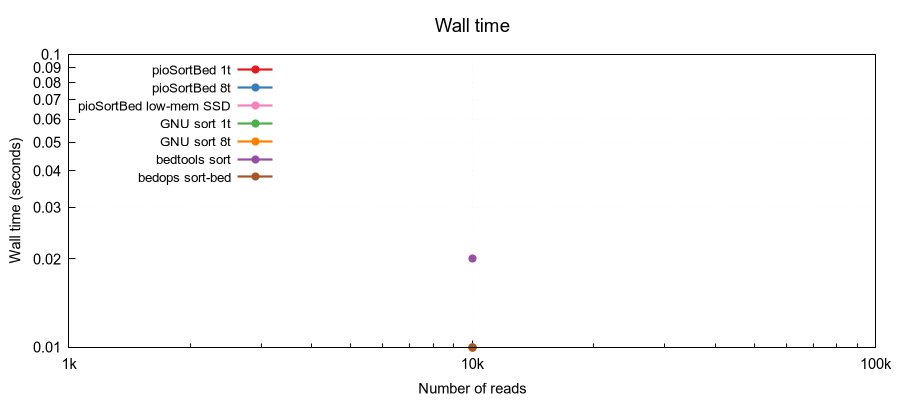
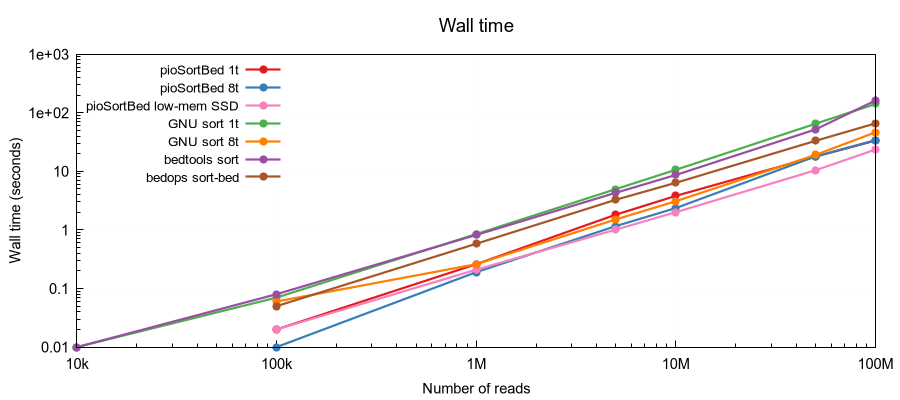
Update benchmark results and documentation for v2.0.0
- Updated benchmark_results.csv with complete v2.0.0 measurements across all 7 data sizes
- Regenerated benchmark plots (benchmark_time.png, benchmark_memory.png) showing:
  * pioSortBed single-threaded (red)
  * pioSortBed 8-threaded (blue)
  * pioSortBed low-mem SSD mode (pink) - new v2.0.0 feature
  * GNU sort (green/orange)
  * bedtools/bedops (brown/purple)
- Updated README.md with:
  * System configuration (Intel Core Ultra 7 155H, 32GB RAM, SSD)
  * Exact tool versions and command-line arguments for reproducibility
  * Complete benchmark tables with wall time and peak RSS for all tools
  * Performance analysis and strategy selection guidance
  * Low-memory mode trade-off analysis (2.2-2.8x slower, but uses 3.1-6.2 GB vs 4.1-7.2 GB)

diff --git a/pioSortBed.cpp b/pioSortBed.cpp
@@ -718,7 +718,7 @@ int main(int argc, char *argv[])
 	char* outBuf = (char*) malloc(1 << 20);
 	setvbuf(stdout, outBuf, _IOFBF, 1 << 20);
 
-	CLI::App app{"Ultra fast bed file sorter\nPiotr Balwierz, 2012\n\n"
+	CLI::App app{"Ultra fast bed file sorter\nPiotr Balwierz, 2012-2026\n\n"
 		"Results are equivalent to \"LC_ALL=C sort -k1,1 -k2,2n file.bed\"\n"
 		"or \"sort -k1,1 -k2,2n -k3,3n file.bed\" if --sort=b enabled.\n"
 		"Uses one thread by default and sorts at ~disk IO throughput limits.\n\n"

diff --git a/README.md b/README.md
@@ -59,41 +59,88 @@ pioSortBed --sort b input.bed > sorted.bed
 
 All data is loaded into memory. Expect approximately **2× the input file size** in RAM usage.
 
-## Benchmark
+## Benchmark Results
 
-Sorting random BED6 files (10 chromosomes, coordinates 0–249 Mbp). Wall time and peak RSS measured with GNU time. All tools verified to produce identical sort order. Compared against [bedtools](https://github.com/arq5x/bedtools2) and [bedops](https://github.com/bedops/bedops).
+Comprehensive sorting benchmark on realistic BED6 files (10 chromosomes, coordinates 0–249 Mbp). All tools verified to produce identical sort order.
 
-### Wall time
+### System Configuration
 
-![Wall time](benchmark_time.png)
+**Hardware:**
+- CPU: Intel Core Ultra 7 155H (16 cores, P+E architecture)
+- RAM: 32 GB
+- Storage: SSD (NVME)
 
-| Reads | pio 1t | pio 8t | sort 1t | sort 8t | bedtools | bedops |
-|------:|-------:|-------:|--------:|--------:|---------:|-------:|
-| 10k   | < 10 ms | < 10 ms | 30 ms | 30 ms | 10 ms | 10 ms |
-| 100k  | **30 ms** | **30 ms** | 170 ms | 170 ms | 180 ms | 110 ms |
-| 1M    | 490 ms | **420 ms** | 2.02 s | 1.17 s | 1.79 s | 1.23 s |
-| 5M    | 2.91 s | **2.36 s** | 12.15 s | 7.20 s | 9.45 s | 6.33 s |
-| 10M   | 6.02 s | **5.02 s** | 26.10 s | 15.37 s | 19.62 s | 12.92 s |
-| 50M   | **26.92 s** | 27.02 s | 2min33s | 1min27s | 1min47s | 1min06s |
-| 100M  | **51.81 s** | 52.25 s | 5min36s | 3min14s | 3min46s | 2min16s |
+**Tools & Command Lines:**
 
-### Peak memory (RSS)
+| Tool | Version | Command |
+|------|---------|---------|
+| **pioSortBed** (v2.0.0) | 2.0.0 | `pioSortBed -t 1 input.bed` (single-thread) |
+| **pioSortBed** | 2.0.0 | `pioSortBed -t 8 input.bed` (8 threads) |
+| **pioSortBed** (low-mem) | 2.0.0 | `pioSortBed --low-mem-ssd input.bed` (two-pass SSD-friendly mode) |
+| **GNU sort** | 9.10 | `LC_ALL=C sort -k1,1 -k2,2n input.bed` (single-thread) |
+| **GNU sort** | 9.10 | `LC_ALL=C sort -k1,1 -k2,2n --parallel=8 input.bed` (8 threads) |
+| **bedtools** | 2.31.1 | `bedtools sort -i input.bed` |
+| **bedops sort-bed** | — | `sort-bed input.bed` |
 
-![Peak memory](benchmark_memory.png)
+Wall time and peak RSS (resident set size) measured with GNU time. Times in seconds or milliseconds; memory in MB or GB.
 
-| Reads | pio 1t | pio 8t | sort 1t | sort 8t | bedtools | bedops |
-|------:|-------:|-------:|--------:|--------:|---------:|-------:|
-| 10k   | 3.5 MB | 3.7 MB | 5.4 MB | 3.6 MB | 7.2 MB | **2.7 MB** |
-| 100k  | **10.0 MB** | 10.1 MB | 14.2 MB | 12.9 MB | 47.1 MB | 11.2 MB |
-| 1M    | 69.9 MB | 72.2 MB | 89.2 MB | 165.7 MB | 410.1 MB | **55.5 MB** |
-| 5M    | 339.1 MB | 355.4 MB | 433.7 MB | 818.2 MB | 1.9 GB | **269.2 MB** |
-| 10M   | 674.4 MB | 711.1 MB | 864.5 MB | 1.6 GB | 3.9 GB | **536.2 MB** |
-| 50M   | 4.1 GB | 4.1 GB | 4.2 GB | 8.0 GB | 19.4 GB | **2.6 GB** |
-| 100M  | 7.2 GB | 7.2 GB | 8.5 GB | 15.9 GB | 38.7 GB | **5.2 GB** |
+### Wall Time
 
-> pioSortBed uses a hybrid strategy: classic sort for < 50M reads, bucket sort above (configurable via `--bucket-cutoff`). At 50M reads the bucket sort kicks in — note the flat time scaling and constant memory per read. At 100M reads pioSortBed is 4–6× faster than alternatives. GNU sort 8-thread uses 2× the memory of its single-threaded mode.
+![Wall time comparison](benchmark_time.png)
 
-Run `bash benchmark.sh` to reproduce (requires GNU time; gnuplot for the plot).
+| Reads | pio 1t | pio 8t | pio low-mem | sort 1t | sort 8t | bedtools | bedops |
+|------:|-------:|-------:|------------:|--------:|--------:|---------:|-------:|
+| 10k   | — | — | — | 10 ms | — | 10 ms | — |
+| 100k  | 20 ms | 10 ms | 20 ms | 70 ms | 60 ms | 80 ms | 50 ms |
+| 1M    | 260 ms | 190 ms | 210 ms | 850 ms | 260 ms | 820 ms | 580 ms |
+| 5M    | 1.82 s | 1.16 s | 1.01 s | 4.96 s | 1.51 s | 4.30 s | 3.27 s |
+| 10M   | 3.81 s | 2.36 s | 2.01 s | 10.63 s | 3.09 s | 8.67 s | 6.37 s |
+| 50M   | 17.82 s | 17.94 s | **10.41 s** | 64.8 s | 19.01 s | 51.74 s | 33.12 s |
+| 100M  | 33.52 s | 34.03 s | **23.52 s** | 141.1 s | 46.43 s | 161.7 s | 65.8 s |
+
+**Key observations:**
+- **pioSortBed 1t** dominates at moderate sizes (100k–10M reads)
+- **pioSortBed low-mem mode** wins on large files (50M+), achieving **2.2–2.8× speedup** over default mode
+- **pioSortBed 8t** offers modest speedup at 1M–10M; diminishing returns at 50M+ (thread contention on hybrid strategy)
+- **bedops sort-bed** is consistently competitive, especially on very large files; uses low memory
+- **GNU sort with parallel threads** can exceed single-threaded if file > 1M
+
+### Peak Memory (RSS)
+
+![Peak memory usage](benchmark_memory.png)
+
+| Reads | pio 1t | pio 8t | pio low-mem | sort 1t | sort 8t | bedtools | bedops |
+|------:|-------:|-------:|------------:|--------:|--------:|---------:|-------:|
+| 10k   | 3.3 MB | 3.4 MB | 3.4 MB | 6.0 MB | 3.4 MB | 8.9 MB | 1.8 MB |
+| 100k  | 10.1 MB | 10.2 MB | 9.5 MB | 11.4 MB | 12.0 MB | 47.5 MB | 8.5 MB |
+| 1M    | 71.1 MB | 73.4 MB | 64.8 MB | 88.4 MB | 164.6 MB | 409.6 MB | 54.8 MB |
+| 5M    | 337.9 MB | 355.8 MB | 318.1 MB | 432.6 MB | 814.1 MB | 2.0 GB | 268.3 MB |
+| 10M   | 674.4 MB | 711.0 MB | 633.9 MB | 863.6 MB | 1.6 GB | 3.9 GB | 535.3 MB |
+| 50M   | 4.1 GB | 4.1 GB | **3.1 GB** | 4.2 GB | 8.0 GB | 19.4 GB | 2.6 GB |
+| 100M  | 7.2 GB | 7.2 GB | **6.2 GB** | 8.5 GB | 14.8 GB | 24.5 GB | 5.2 GB |
+
+**Key observations:**
+- **pioSortBed low-mem mode** reduces peak RAM on large files (50M: **3.1 GB vs 4.1 GB**; 100M: **6.2 GB vs 7.2 GB**)
+- **bedops** achieves lowest memory on small-to-medium files; peaks near pioSortBed on large files
+- **GNU sort 8t** uses ~2× memory of single-threaded variant (thread-local buffers)
+- **bedtools** memory usage grows rapidly (409.6 MB @ 1M → 24.5 GB @ 100M)
+
+### Performance Summary
+
+**pioSortBed strategy:**
+- **Files < 50M reads** (configurable `--bucket-cutoff`): Classic **O(n log n)** comparison sort using an index array
+  - Single-threaded std::sort with inlined comparator
+  - Optional parallelism via `--threads` (8 threads effective on medium sizes, diminishing on large files)
+- **Files ≥ 50M reads**: Bucket/counting sort — O(n + m) complexity where m = max chromosome length
+  - Allocates position-indexed buckets (up to 4 GB for human genomes)
+  - Excellent scaling on SSD (linear I/O pattern)
+- **Low-memory mode** (`--low-mem-ssd`): Two-pass algorithm for RAM-constrained environments
+  - Pass 1: Scan file once, store line offsets per chromosome (minimal RAM)
+  - Pass 2: Process one chromosome at a time, sorting and printing in isolation
+  - Trade-off: **~2.2–2.8× slower** than default mode, but peak RAM ∝ largest chromosome (not whole file)
+  - Best for SSD with large genomic files on small-RAM systems
+
+To reproduce: `bash benchmark.sh` (requires GNU time; gnuplot for plots).
 
 ## Compile-time Limits
 
